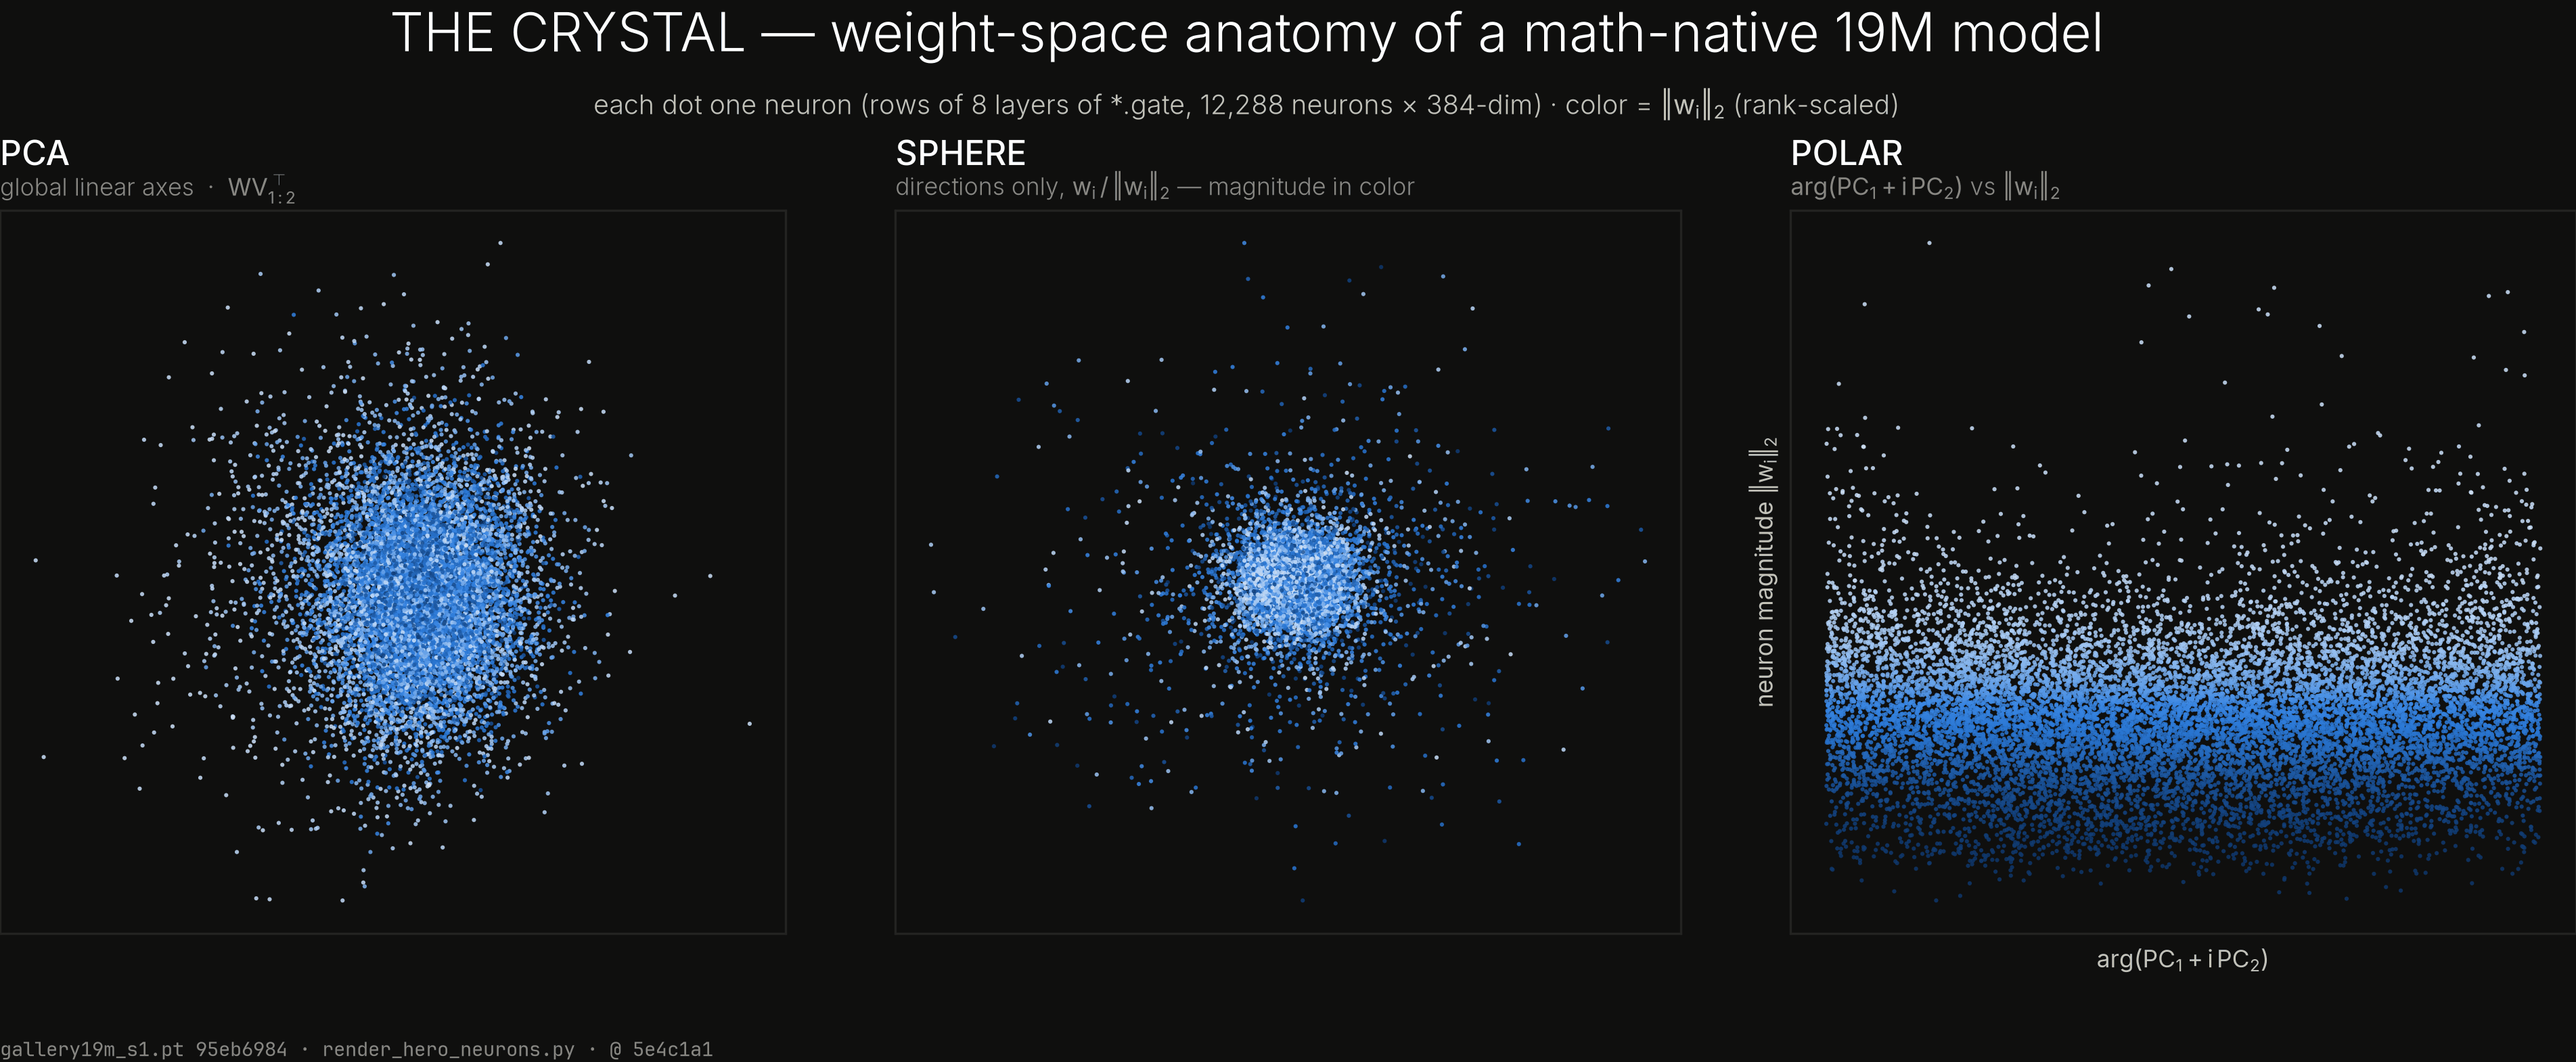
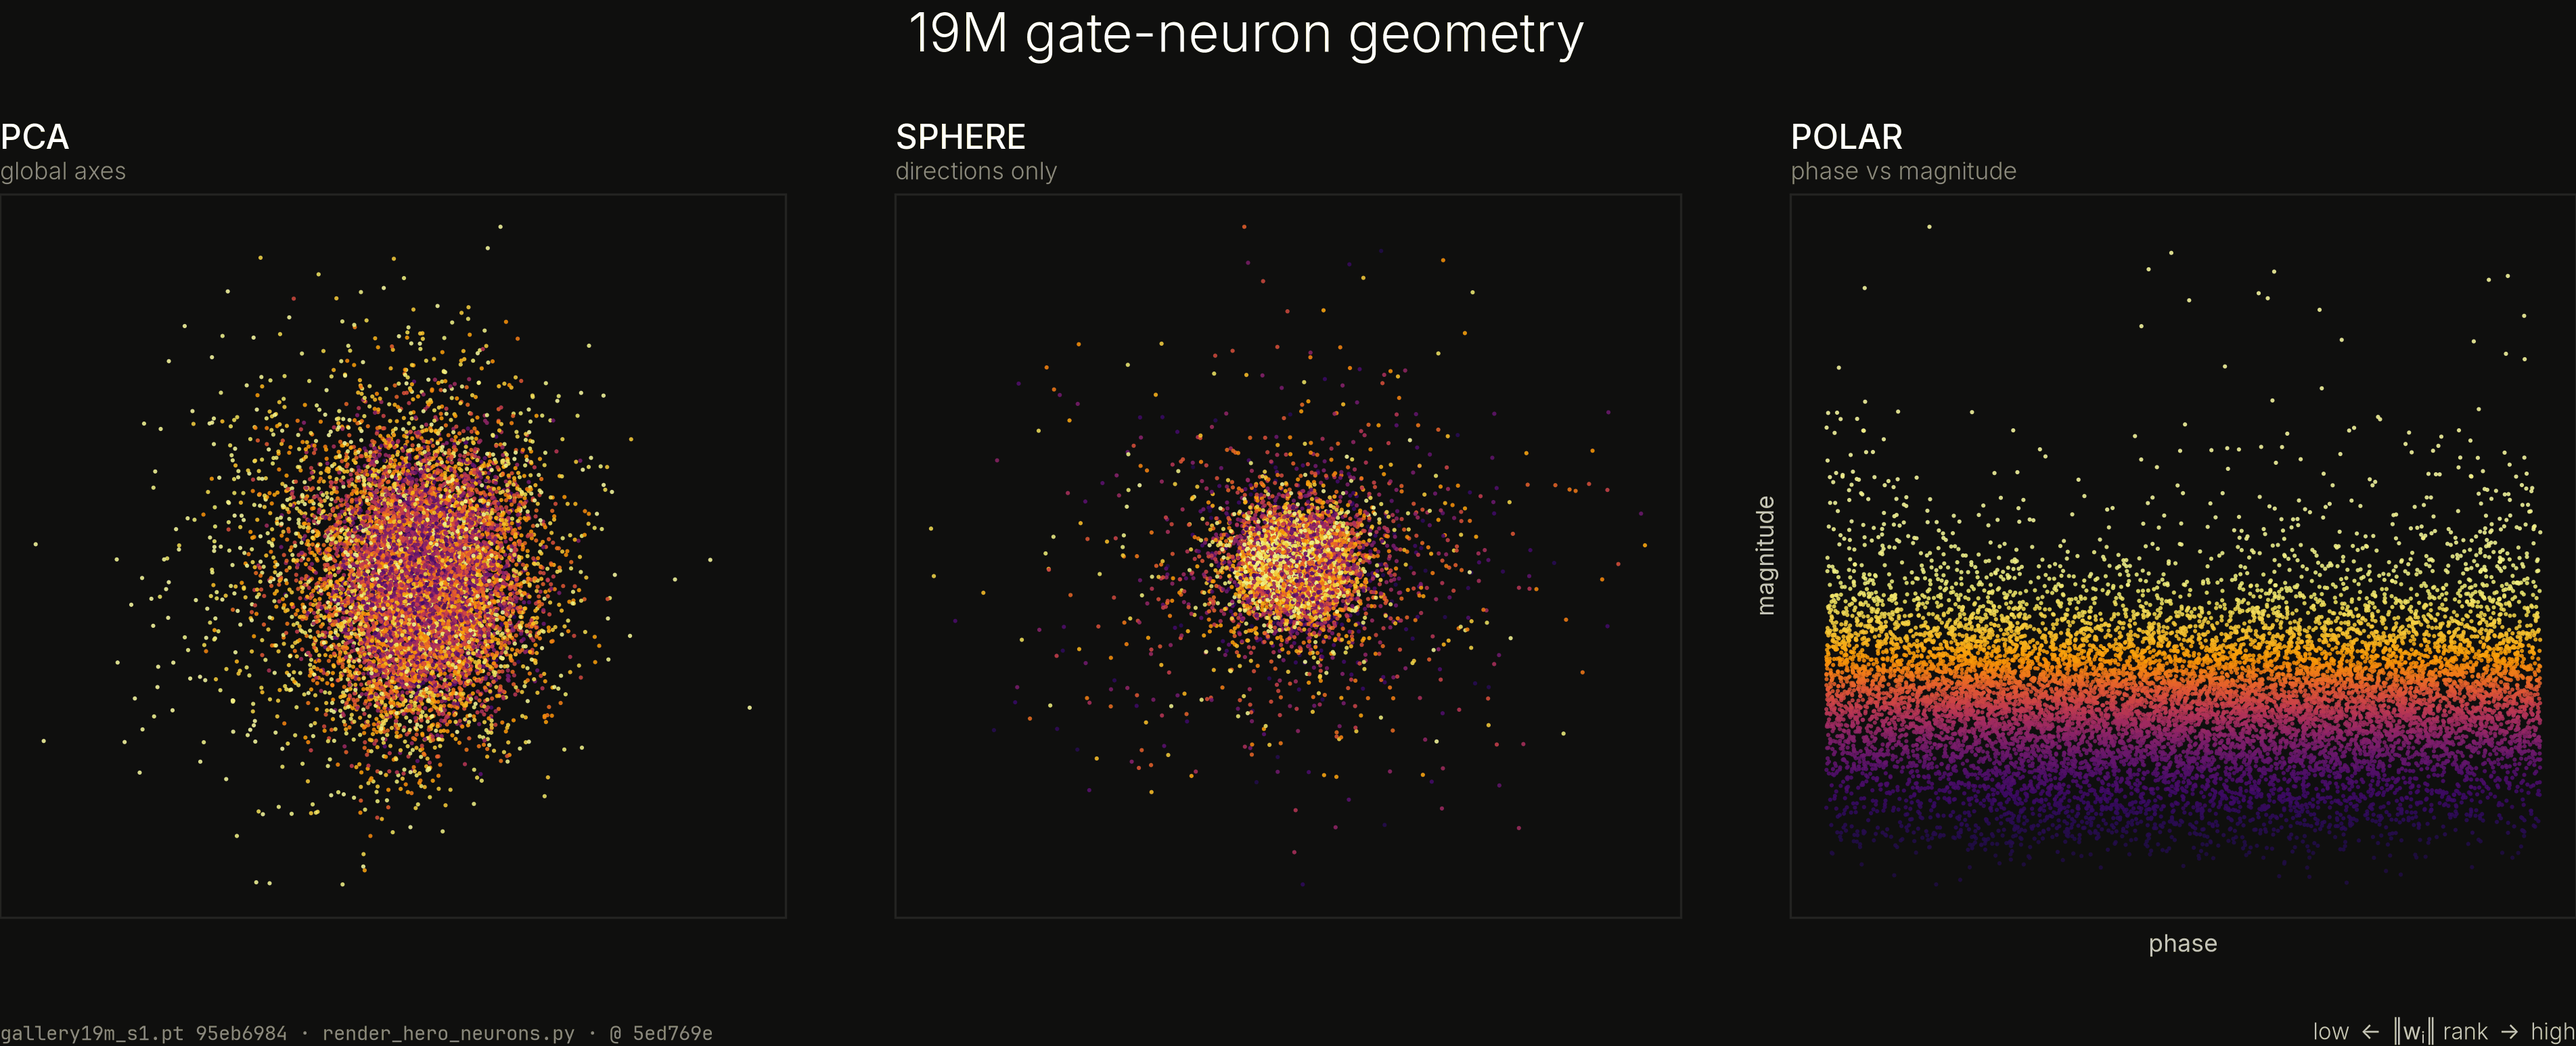
feat: hero re-render — inferno ramp, minimal text (Pass 2b)
Title cut to '19M gate-neuron geometry'; scope sentence and panel
equations dropped (README prose beside the image carries them);
panel descriptors one phrase each; ramp cue added bottom-right;
provenance fence stays. Rendered from gallery19m_s1.pt, 256-color
median-cut quantized (~0.45MB each, was ~0.5MB). Slice endpoints
accepted as committed and frozen in test_figstyle. Old hero pixels
remain in git history. Suite 845 passed / 11 skipped; ruff clean.

diff --git a/llmopt/figures/anatomy.py b/llmopt/figures/anatomy.py
@@ -98,12 +98,12 @@ def rank_scale(mag):
     return order
 
 
+# One tiny descriptor per panel — the README prose beside the image
+# carries the full explanation (style v2 master rule).
 PANELS = [
-    ("pca", "PCA", r"global linear axes  ·  $W V_{1:2}^{\top}$"),
-    ("sphere", "SPHERE",
-     r"directions only, $w_i\,/\,\|w_i\|_2$ — magnitude in color"),
-    ("polar", "POLAR",
-     r"$\arg(\mathrm{PC}_1 + i\,\mathrm{PC}_2)$ vs $\|w_i\|_2$"),
+    ("pca", "PCA", "global axes"),
+    ("sphere", "SPHERE", "directions only"),
+    ("polar", "POLAR", "phase vs magnitude"),
 ]
 
 
@@ -124,7 +124,6 @@ def render_dot_views(W, out_stem: str, title: str, source_label: str,
 
     from llmopt.figures import figstyle
 
-    n, d = W.shape
     order = rank_scale(W.norm(dim=1))
     outs = []
     for mode in modes:
@@ -150,22 +149,18 @@ def render_dot_views(W, out_stem: str, title: str, source_label: str,
                 s.set_visible(True)
                 s.set_color(c["grid"])
             if method == "polar":
-                ax.set_xlabel(
-                    r"$\arg(\mathrm{PC}_1 + i\,\mathrm{PC}_2)$",
-                    fontsize=8.5)
-                ax.set_ylabel(r"neuron magnitude $\|w_i\|_2$",
-                              fontsize=8.5)
+                ax.set_xlabel("phase", fontsize=8.5)
+                ax.set_ylabel("magnitude", fontsize=8.5)
 
-        # Type hierarchy: Light 300 centered display, secondary scope
-        # line, Medium 500 panel names, muted Light eyebrows.
-        fig.text(0.5, 0.945, title, fontsize=19, fontweight=300,
+        # Type hierarchy: Light 300 centered display title, Medium 500
+        # panel names, muted eyebrows. Prose beside the image explains;
+        # the chart carries only the title, one ramp cue, and the fence.
+        fig.text(0.5, 0.93, title, fontsize=19, fontweight=300,
                  color=c["primary"], ha="center")
-        fig.text(0.5, 0.887,
-                 f"each dot one neuron ({source_label}, "
-                 f"{n:,} neurons × {d}-dim) · "
-                 r"color = $\|w_i\|_2$ (rank-scaled)",
-                 fontsize=9.5, fontweight=300, color=c["secondary"],
-                 ha="center")
+        fig.text(0.985, 0.028,
+                 r"low $\leftarrow$ $\|w_i\|$ rank $\rightarrow$ high",
+                 fontsize=8, fontweight=300, color=c["secondary"],
+                 ha="right")
         fig.text(0.045, 0.028, f"{provenance} · @ {_repo_head()}",
                  fontsize=7, color=c["muted"], family="monospace")
 

diff --git a/tests/test_figstyle.py b/tests/test_figstyle.py
@@ -180,3 +180,13 @@ def test_continuous_magnitude():
     assert dark(0.9) != light(0.9)
     with pytest.raises(ValueError):
         figstyle.continuous("volume", "dark")
+
+
+def test_continuous_slice_endpoints_frozen():
+    # Tuned against both surfaces for the 2026-08-13 hero render, then
+    # frozen: dark keeps inferno's luminous top, light drops the
+    # near-white top. Changing these re-colors every dot view.
+    assert figstyle.CONTINUOUS_SLICES == {
+        ("magnitude", "dark"): (0.12, 1.0),
+        ("magnitude", "light"): (0.0, 0.82),
+    }

diff --git a/scripts/render_hero_neurons.py b/scripts/render_hero_neurons.py
@@ -22,8 +22,7 @@ def main() -> None:
     ap = argparse.ArgumentParser()
     ap.add_argument("--ckpt", required=True)
     ap.add_argument("--key", default="gate.weight")
-    ap.add_argument("--title", default="THE CRYSTAL — weight-space "
-                    "anatomy of a math-native 19M model")
+    ap.add_argument("--title", default="19M gate-neuron geometry")
     ap.add_argument("--out", required=True,
                     help="output stem; writes <out>-light.png and "
                          "<out>-dark.png")
